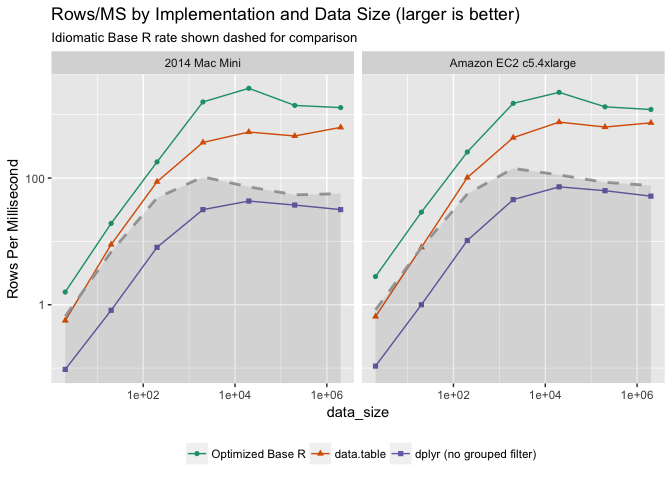
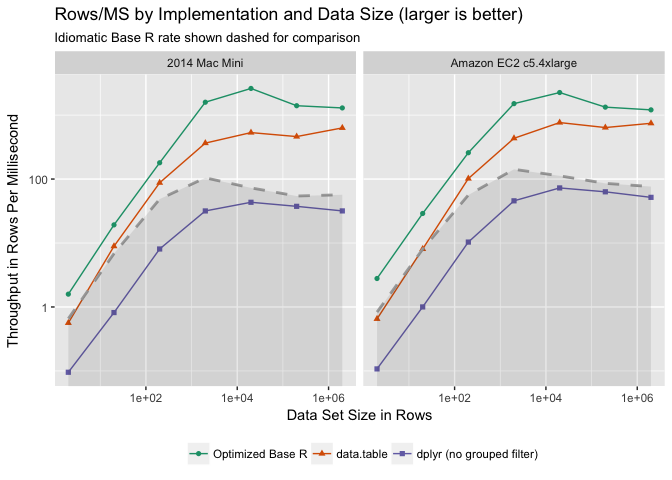
fix title

diff --git a/extras/QTimingFollowup/compare_runs.md b/extras/QTimingFollowup/compare_runs.md
@@ -62,7 +62,9 @@ ggplot(data=compsF, aes(x=data_size, y=data_size/durationMS,
   geom_ribbon(data=baselineF, 
               aes(x=data_size, ymax=data_size/durationMS, ymin=0), 
               color=baseline_color, alpha=0.1, size=0) +
-  scale_x_log10() + ylab("Rows Per Millisecond") +
+  scale_x_log10() + 
+  ylab("Throughput in Rows Per Millisecond") +
+  xlab("Data Set Size in Rows") +
   scale_y_log10() +
   scale_color_brewer(palette="Dark2") + 
   facet_wrap(~machine, ncol=2) + 
